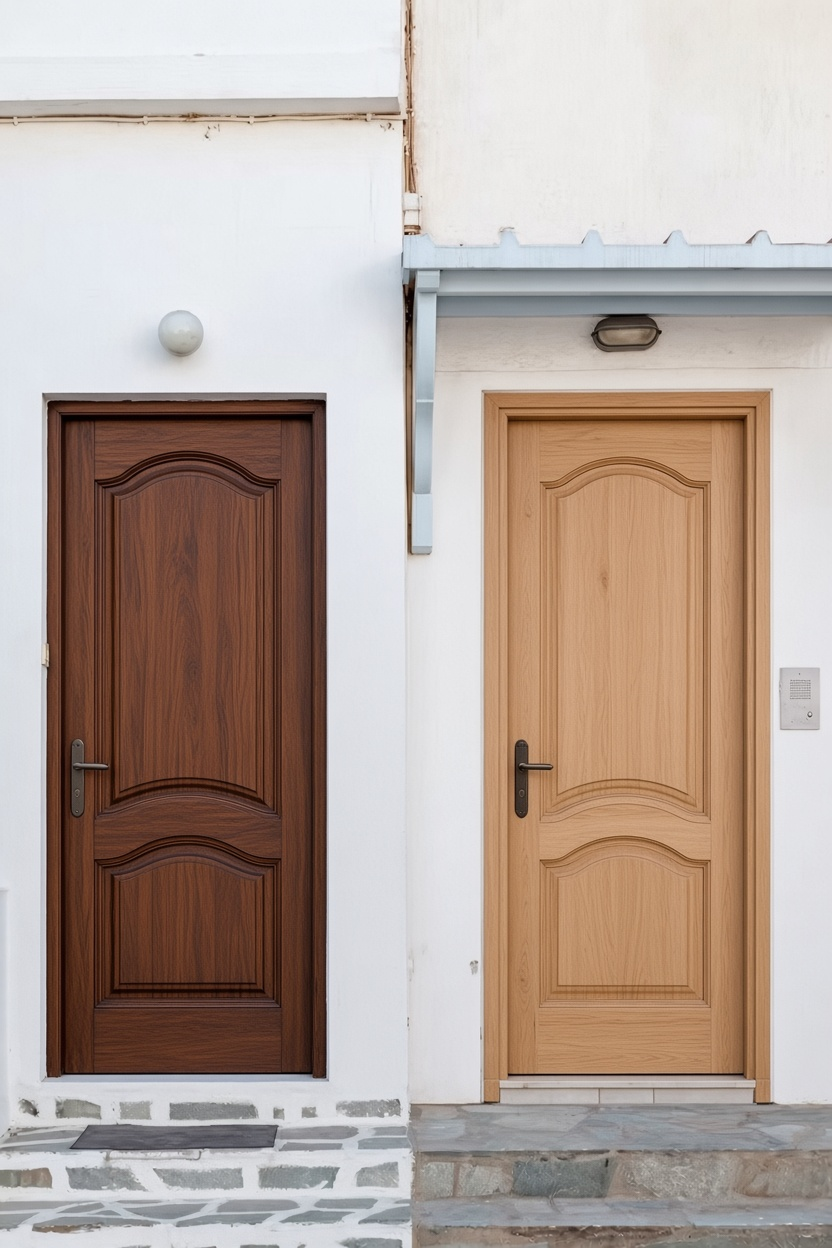
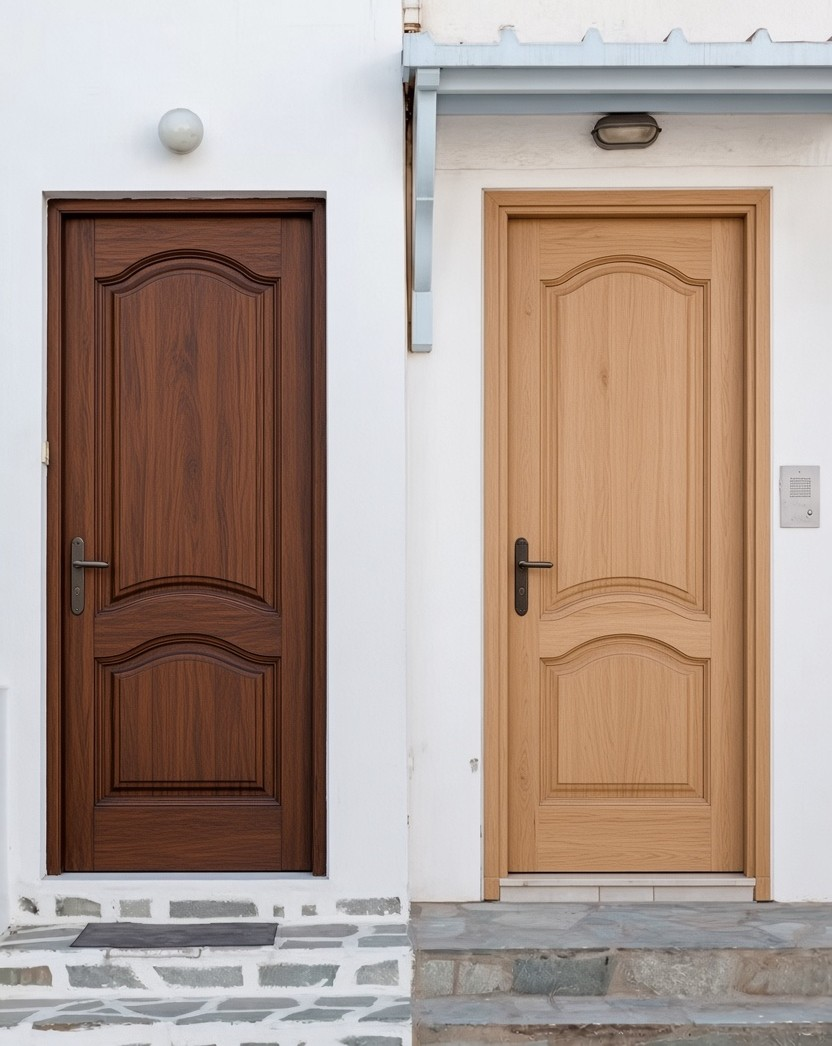
Update story image aspect ratio and add spacing in CSS

diff --git a/app/page.tsx b/app/page.tsx
@@ -81,7 +81,7 @@ export default function HomePage() {
       <section className="section" id="story">
         <div className="container">
           <div className="story-layout">
-            <div className="story-img img-reveal">
+            <div className="story-img img-reveal" style={{ aspectRatio: "4/4" }}>
               <img
                 src="/1.jpeg"
                 alt="WoodLand door detail"

diff --git a/app/home.css b/app/home.css
@@ -251,6 +251,7 @@
         max-width: 700px;
         margin: 0 auto;
         aspect-ratio: 4 / 3;
+        
     }
 
     .story-text {
